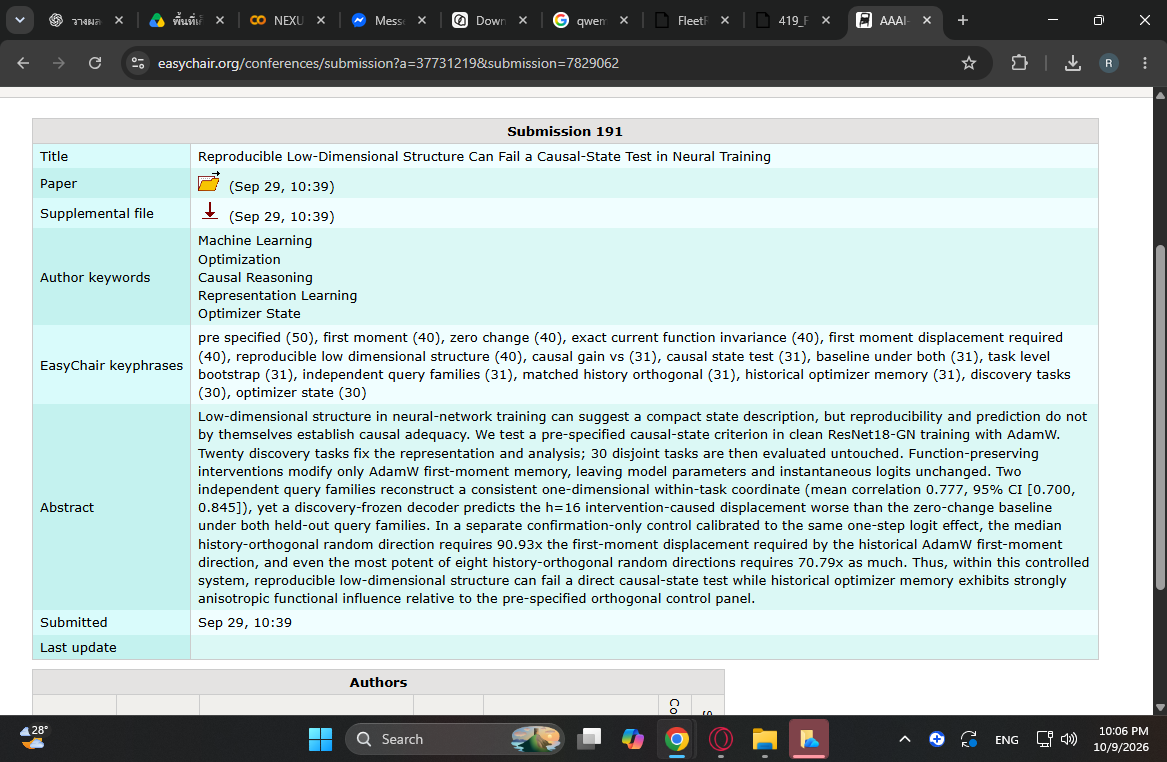
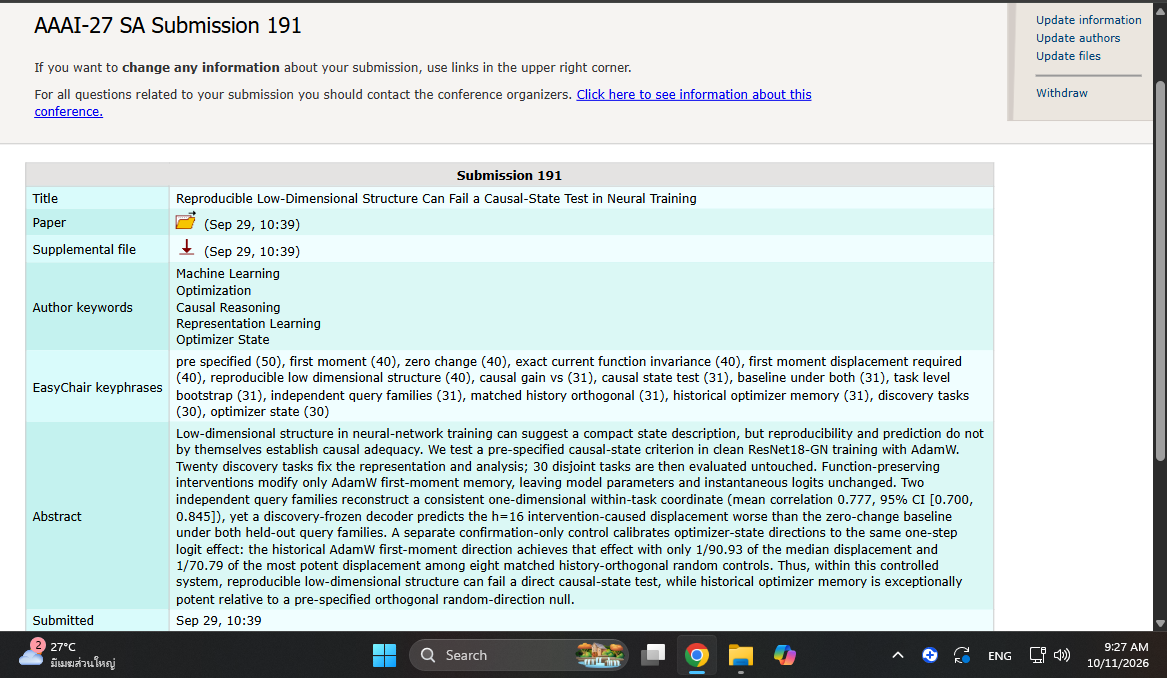
Refresh AAAI-27 SA submission evidence and distinguish current and original records

diff --git a/projects/neural-training/README.md b/projects/neural-training/README.md
@@ -27,8 +27,12 @@ This is a rendering of the supplied paper's first page. The submission records b
 
 - [Read the paper (PDF)](paper.pdf)
 - [Download the final supplementary package](supplement.zip)
-- [Submission record](evidence/submission_4.png)
-- [Submission details](evidence/submission_5.png)
+- [Original submission record](evidence/submission_4.png)
+- [Current submission details](evidence/submission_5.png)
+
+![Current EasyChair submission details, submission 191](evidence/submission_5.png)
+
+The author supplied this updated EasyChair screenshot on 11 October 2026. Its abstract matches the paper; the paper and supplement retain their 29 September upload timestamps. The screenshot documents submission 191. Acceptance is not claimed.
 
 The supplementary package contains the final twenty-task discovery / thirty-task confirmation evidence and independent checks. Earlier exploratory runs are history, not extra confirmation tasks.
 
